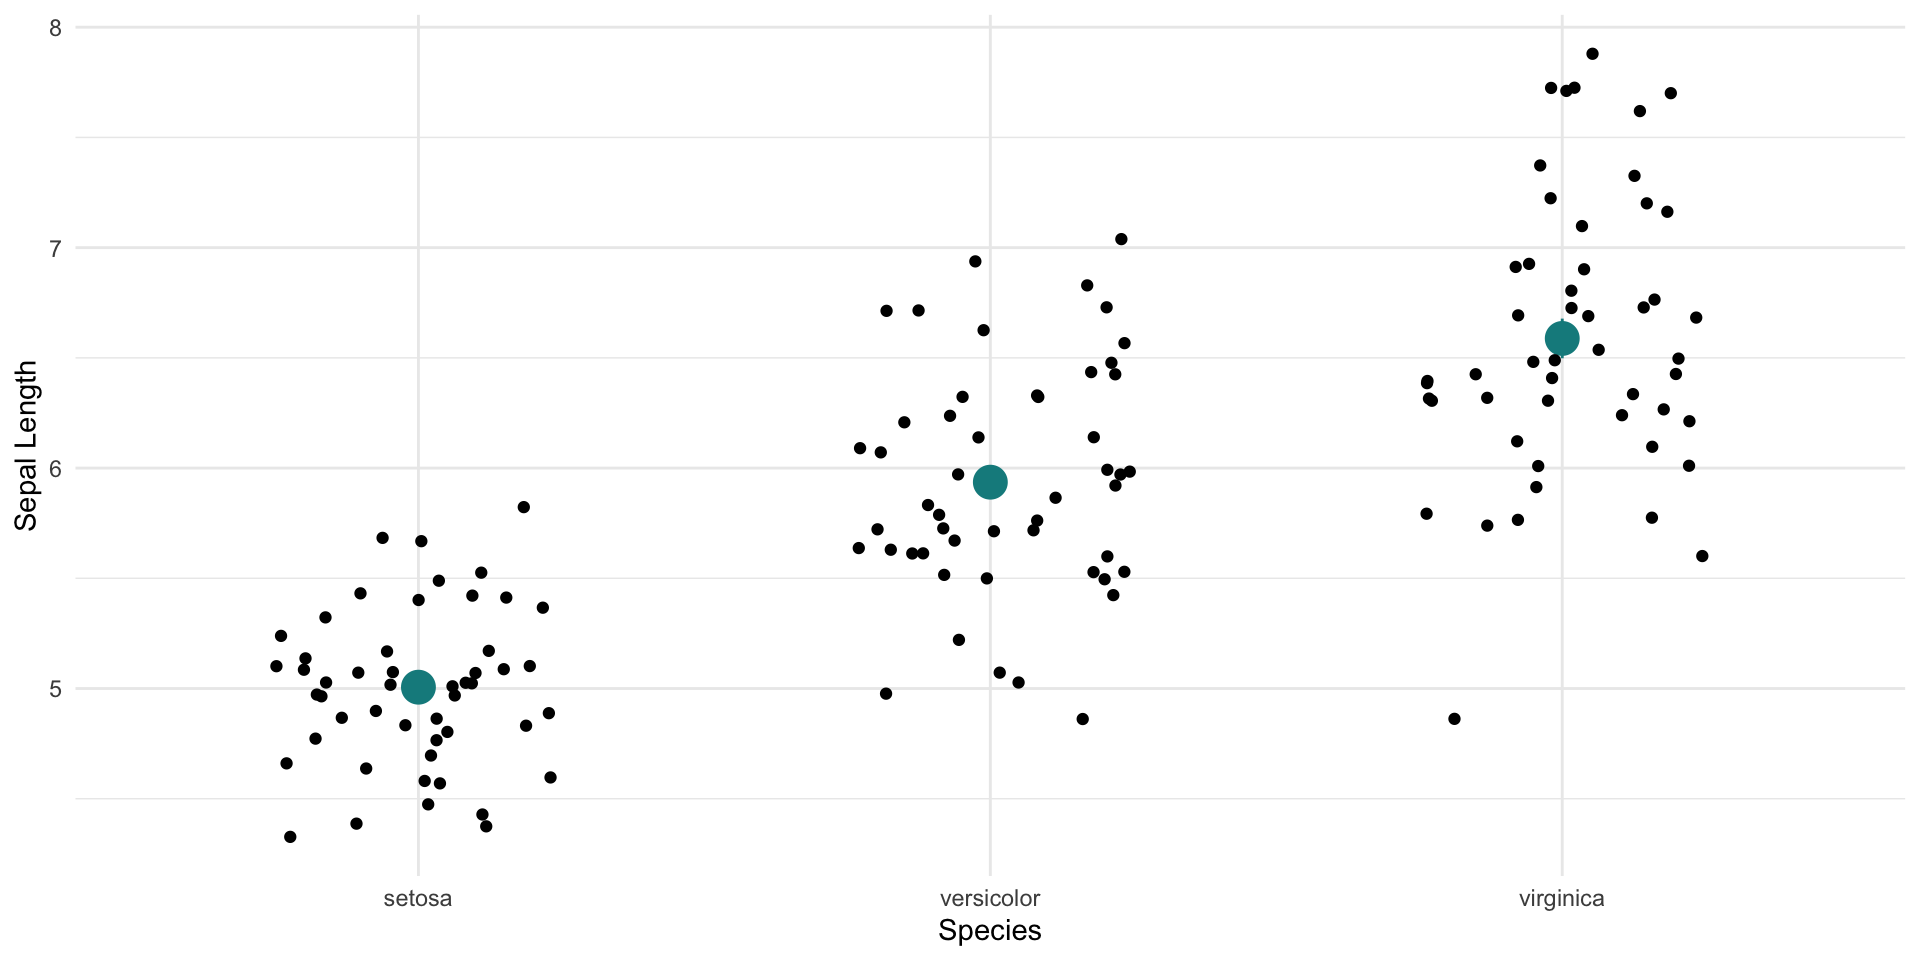
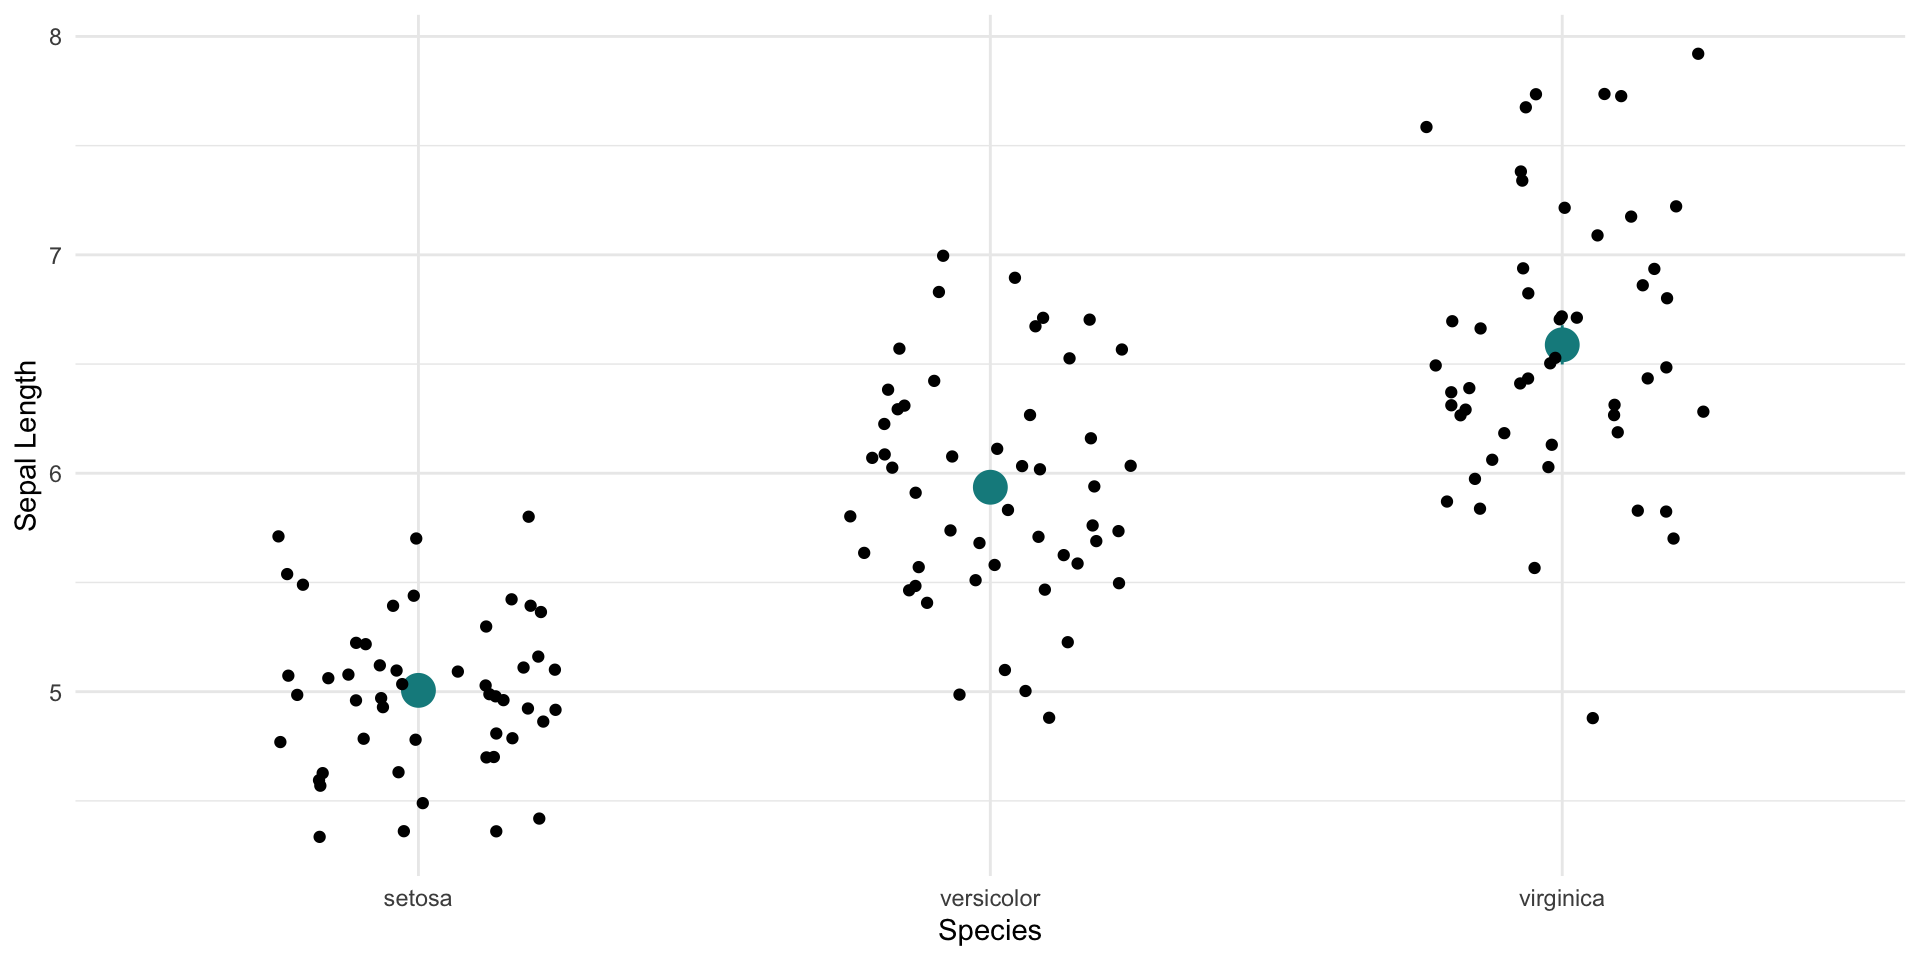
built for latest content

diff --git a/docs/slides.html b/docs/slides.html
@@ -295,7 +295,7 @@ Rodney Dyer, PhD
 </div><div class="column" style="width:50%;">
 <div class="quarto-figure quarto-figure-center">
 <figure>
-<p><img data-src="https://live.staticflickr.com/65535/50609360207_92d21b056f_w_d.jpg"></p>
+<p><img data-src="media/the_enigmatic_iris.jpg"></p>
 <figcaption>The enigmatic <em>Iris</em>.</figcaption>
 </figure>
 </div>
